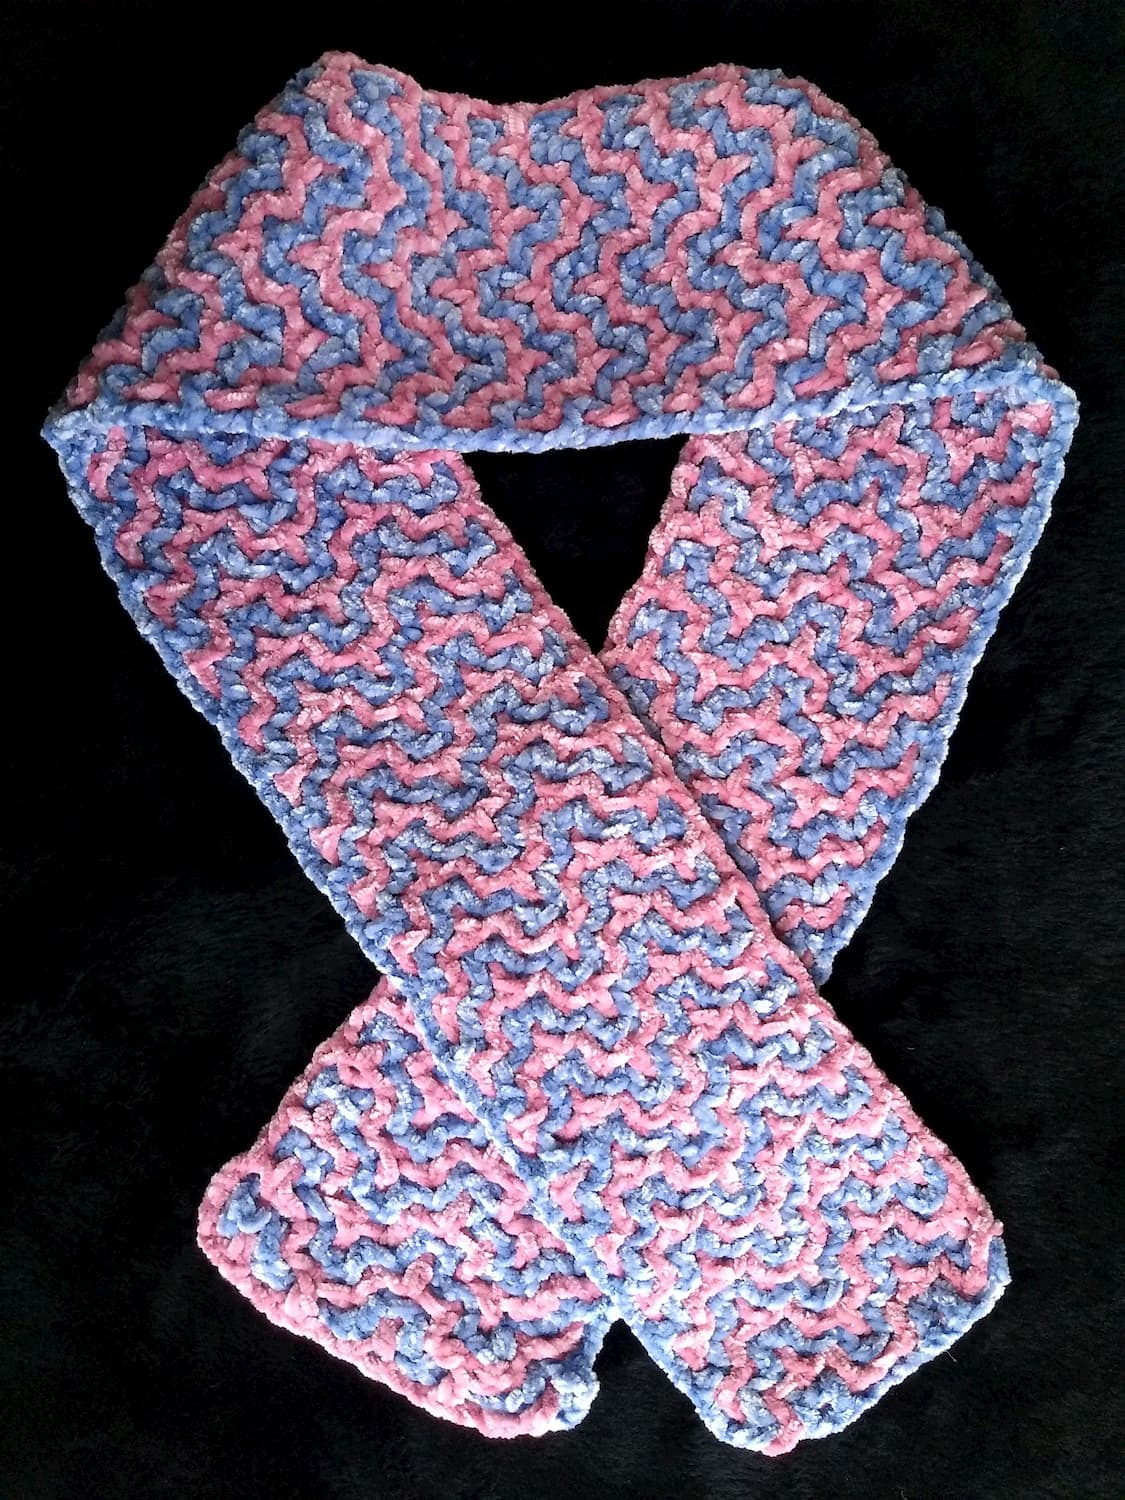
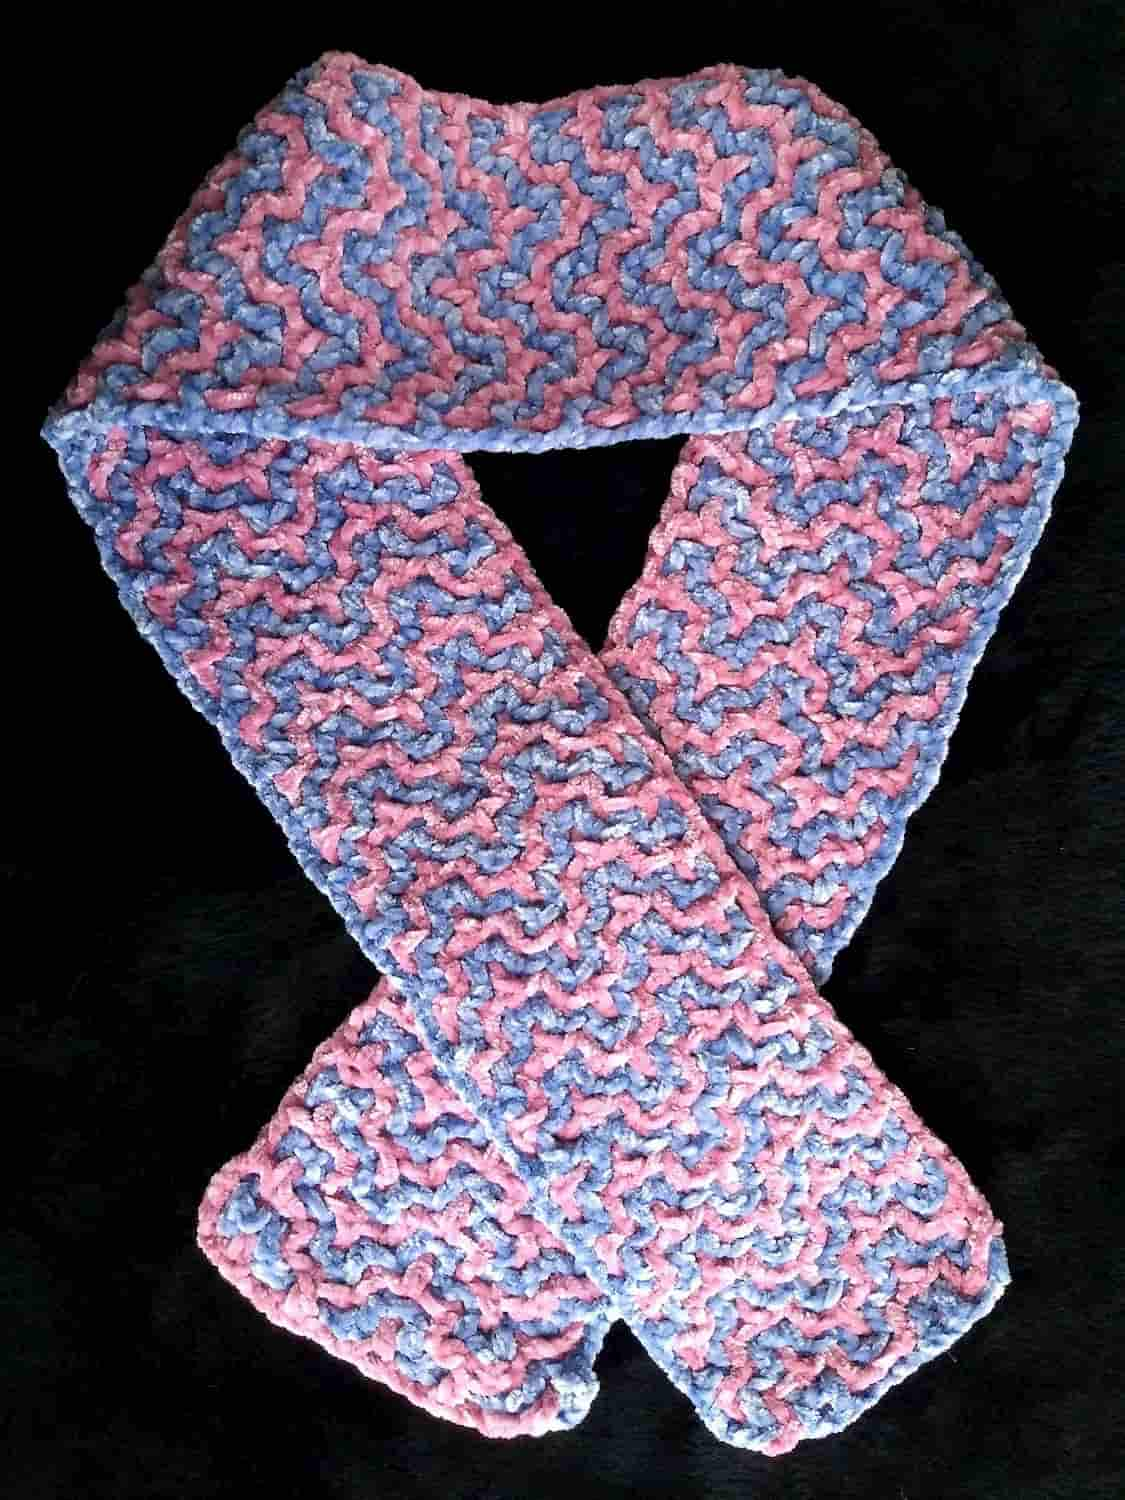
Add content and images
Prepare for this years' sale
Squoosh new and existing images to smaller size

diff --git a/crafts.html b/crafts.html
@@ -34,7 +34,8 @@
 
     <label for="search-year">Year(s) sold: </label>
     <select id="search-year">
-      <option value="2019" selected>2019</option>
+      <option value="2019" selected>2021</option>
+      <option value="2019">2019</option>
       <option value="2018">2018</option>
       <option value="">all years</option>
     </select>
